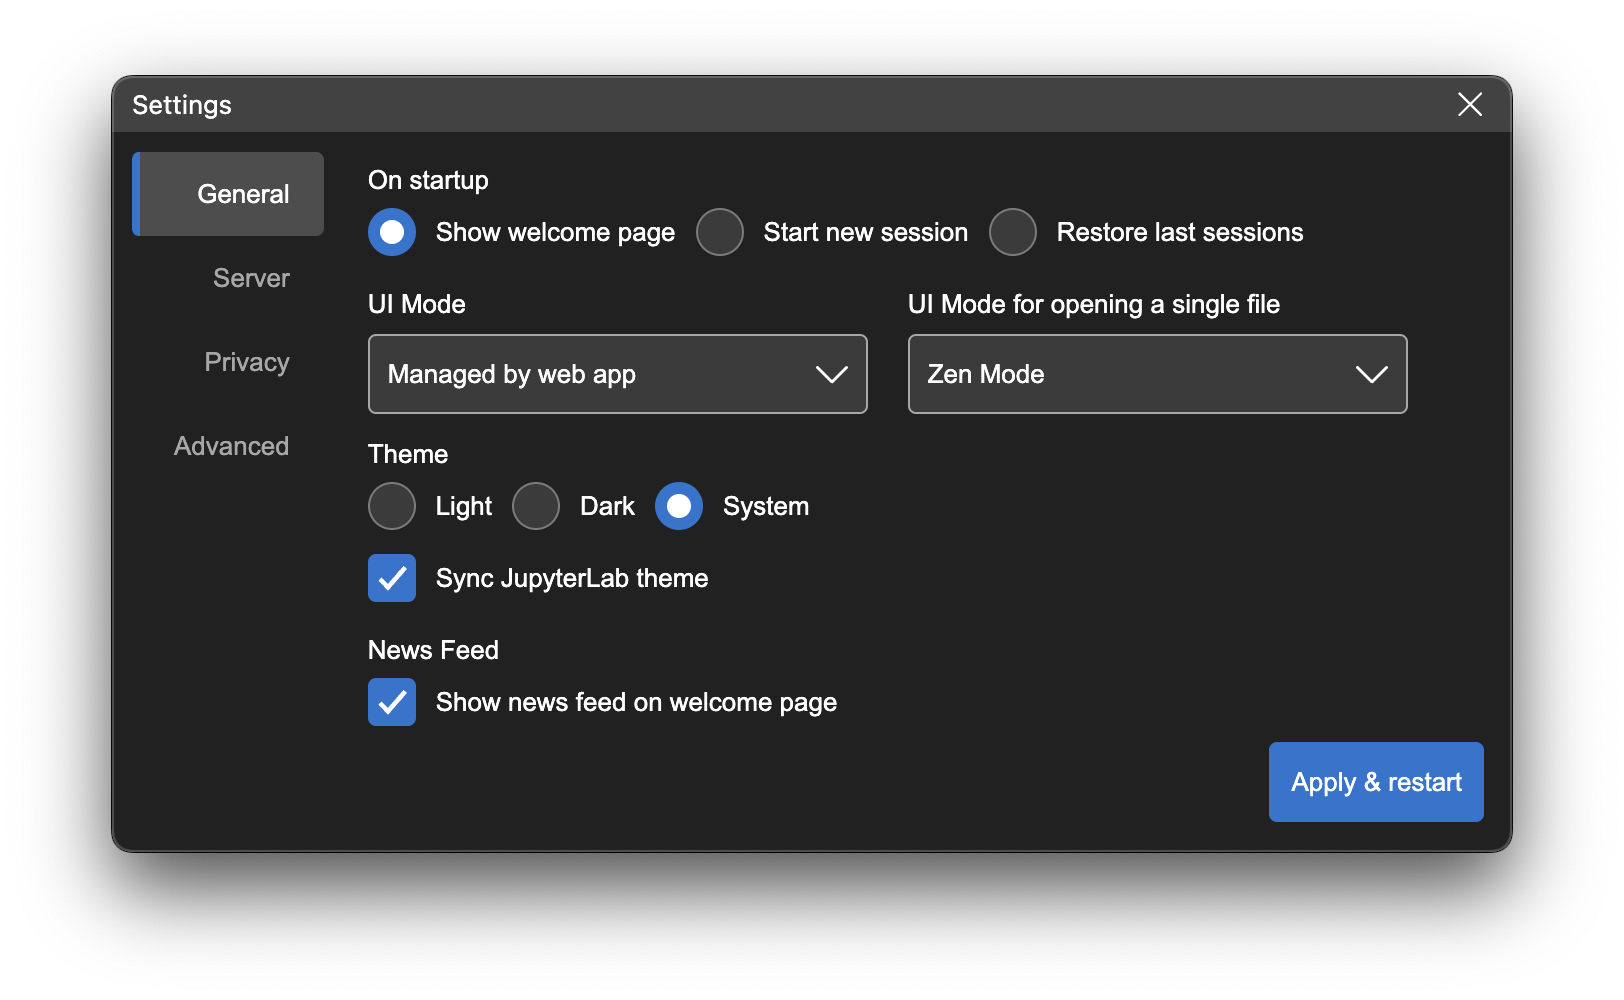
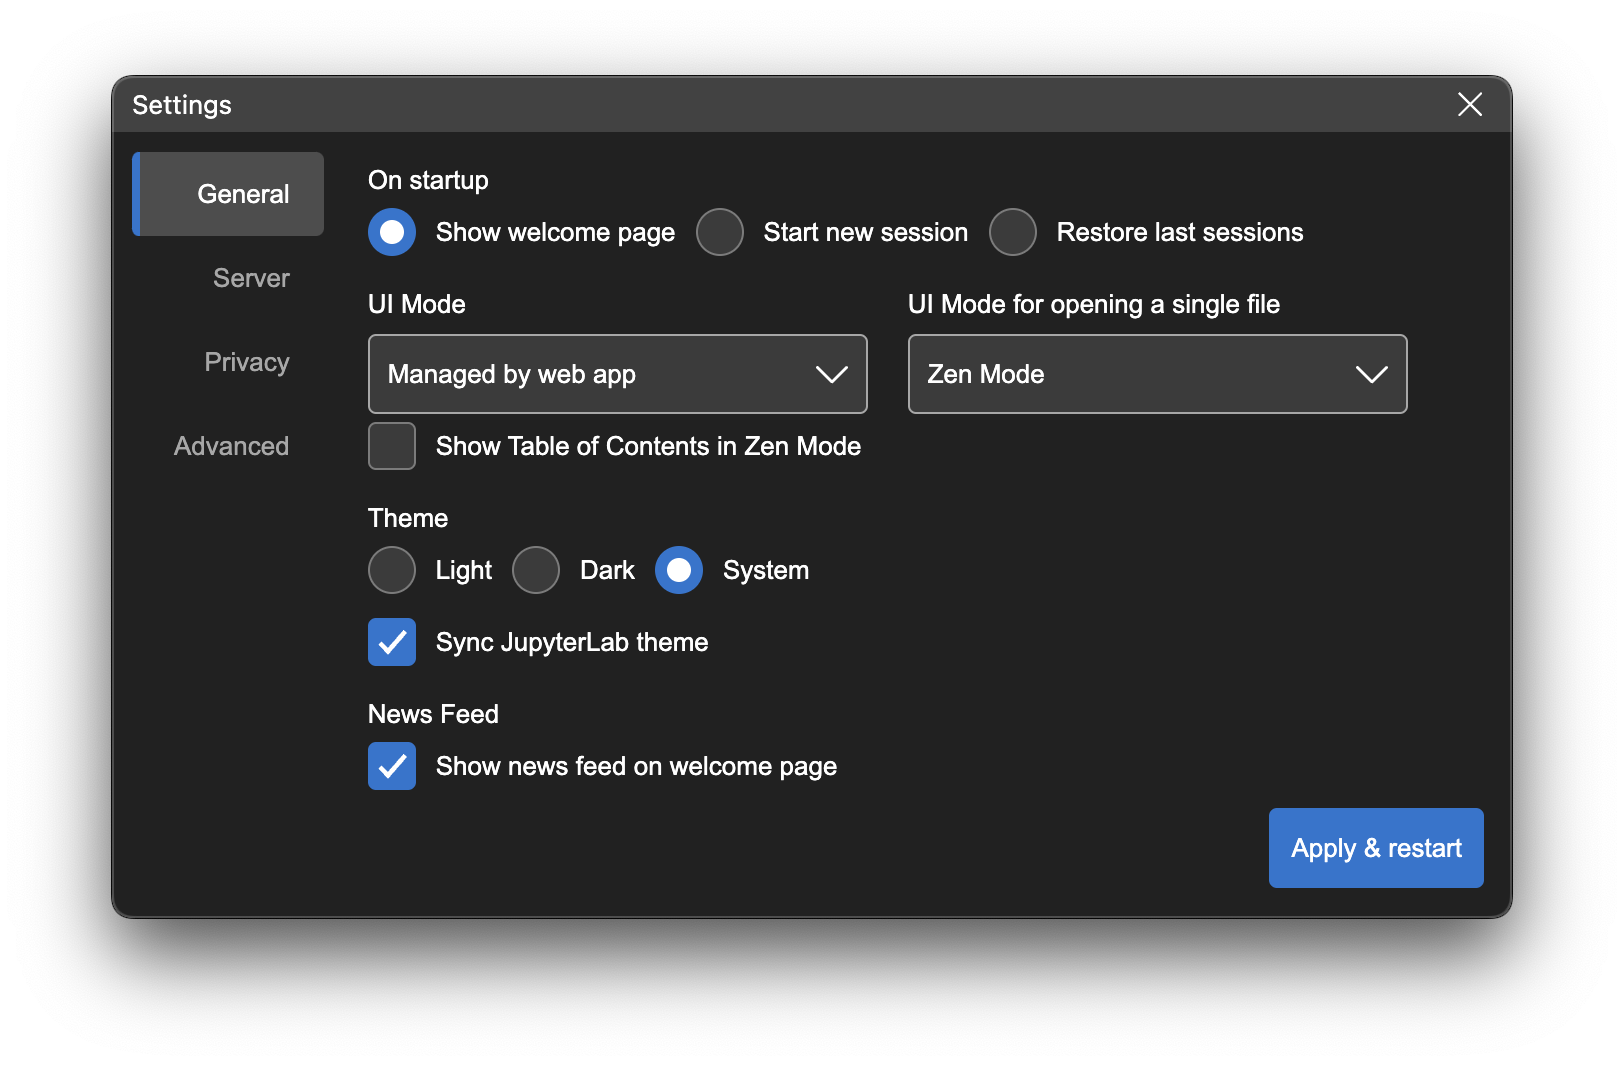
update UI modes documentation

Changed region(s): [[0.0616, 0.062, 0.9236, 0.744], [0.0616, 0.744, 0.9544, 0.868], [0.0924, 0.403, 0.1847, 0.465]]

diff --git a/user-guide.md b/user-guide.md
@@ -206,7 +206,7 @@ JupyterLab Desktop provides a convenient way to configure the JupyterLab UI layo
 
 `Multi document IDE` is equivalent to default UI layout mode of web app and `Single document IDE` mode corresponds to Simple Interface. `Zen Mode` is a newly introduced mode in desktop app which simplifies Simple Interface further by hiding side panels and status bar. Zen Mode is great for focusing on a notebook document. It is the new default mode for opening a single notebook or creating a new notebook. `Managed by web app` option leaves the layout configuration to web app. `Reset to session default` option sets the UI mode to either to default of `UI Mode for opening a single file` or `UI Mode` as defined in the settings dialog (shown below) based on the number of files opened by the session.
 
-Defaults for sessions and for opening a single notebook can be customized from the Settings dialog as shown below.
+Defaults for sessions and for opening a single notebook can be customized from the Settings dialog as shown below. You can also toggle the visibility of `Table of Contents` panel in Zen Mode. Table of Contents panel allows easy navigation between sections in notebook.
 
 <img src="media/ui-mode-settings.png" alt="UI Mode settings" width=700 />
 
